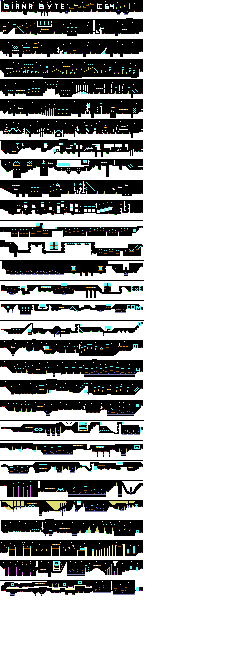
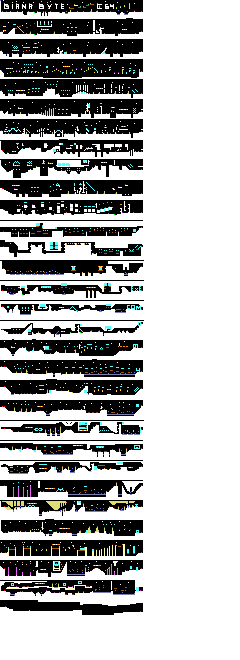
added basic boss and started 30th level

Changed region(s): [[0.0, 0.9091, 0.6125, 0.9394]]

diff --git a/core/src/com/mdinic/game/giana/Boss.java b/core/src/com/mdinic/game/giana/Boss.java
@@ -1,0 +1,120 @@
+package com.mdinic.game.giana;
+
+import com.mdinic.game.giana.Bullet.BulletState;
+import com.mdinic.game.giana.Sounds.Sfx;
+
+public class Boss extends Monster {
+
+    BossState state = BossState.WAIT;
+
+    enum BossState {
+        ATACK, RETREAT, STAY, WAIT, GIANA_ON_SIGHT
+    }
+
+    public Boss(GameMap map, float x, float y) {
+        super(map, x, y);
+        bounds.width = 2;
+        bounds.height = 1;
+
+        vel.set(-1, 0);
+    }
+
+    public void update(float deltaTime) {
+        stateTime += deltaTime;
+        bounds.x += vel.x * deltaTime;
+        bounds.y += vel.y * deltaTime;
+
+        switch (state) {
+        case WAIT:
+            vel.set(0, 0);
+            if (map.giana.pos.x > pos.x - GameMap.MAP_HEIGHT / 2) {
+                state = BossState.GIANA_ON_SIGHT;
+            }
+            break;
+        case GIANA_ON_SIGHT:
+            state = BossState.STAY;
+            stateTime = 0;
+            break;
+        case STAY:
+            if (stateTime < 0.5) {
+                vel.set(-2, 0);
+            } else if (stateTime < 1) {
+                vel.set(2, 0);
+            } else {
+                state = BossState.ATACK;
+                stateTime = 0;
+            }
+
+            break;
+        case ATACK:
+            if (stateTime > 2) {
+                state = BossState.RETREAT;
+                stateTime = 0;
+            } else {
+                vel.set(-4, 0);
+            }
+            break;
+        case RETREAT:
+            if (stateTime > 3) {
+                state = BossState.STAY;
+                stateTime = 0;
+            } else {
+                vel.set(2, 0);
+            }
+            break;
+        default:
+            break;
+        }
+
+        // boolean change = false;
+        // int y = map.tiles[0].length - 1 - (int) Math.floor(bounds.y);
+        // if (state == FORWARD) {
+        // // System.out.println("fw");
+        // change = map.isColidable(map.tiles[(int) Math.ceil(bounds.x)][y]);
+        // change = change || map.tiles[(int) Math.ceil(bounds.x)][y + 1] == 0;
+        // } else {
+        // // System.out.println("bw");
+        // change = map.isColidable(map.tiles[(int) Math.floor(bounds.x)][y]);
+        // change = change || map.tiles[(int) Math.floor(bounds.x)][y + 1] == 0;
+        // }
+        // if (change) {
+        // bounds.x -= vel.x * deltaTime;
+        // bounds.y -= vel.y * deltaTime;
+        // state = -state;
+        // vel.scl(-1);
+        // if (state == FORWARD)
+        // vel.nor().scl(FORWARD_VEL);
+        // if (state == BACKWARD)
+        // vel.nor().scl(BACKWARD_VEL);
+        // }
+        //
+        // killByGiana(type.canBeKilled);
+
+        tryToKillGiana();
+
+        pos.x = bounds.x;
+        pos.y = bounds.y;
+
+    }
+
+    @Override
+    protected void killByGiana(boolean canBeKilled) {
+        boolean hit = (map.giana.bullet.active && map.giana.bullet.bounds.overlaps(bounds));
+        if (hit && alive && !map.demo) {
+
+            if (canBeKilled) {
+                alive = false;
+                map.score += 50;
+                map.sounds.play(Sfx.KILL);
+            }
+
+            if (map.giana.bullet.state != BulletState.EXPLODE) {
+                map.giana.bullet.time = 0;
+                map.giana.bullet.state = BulletState.EXPLODE;
+            }
+        }
+
+    }
+    // spider 0xeef11c
+
+}

diff --git a/core/src/com/mdinic/game/giana/MapRenderer.java b/core/src/com/mdinic/game/giana/MapRenderer.java
@@ -33,6 +33,8 @@ public class MapRenderer {
     public SpriteBatch batch = new SpriteBatch(5460);
     public final SpriteBatch fontBatch;
 
+    Animation spiderAnim;
+
     Animation gianaLeft;
     Animation gianaRight;
     Animation gianaJumpLeft;
@@ -289,6 +291,9 @@ public class MapRenderer {
 
         spawn = gianaSmallRight[0];
 
+        spiderAnim = new Animation(0.1f, new TextureRegion(new Texture(Gdx.files.internal("data/spider.png"))).split(
+                46, 20)[0]);
+
         FreeTypeFontGenerator generator = new FreeTypeFontGenerator(Gdx.files.internal("data/Giana.ttf"));
         FreeTypeFontParameter parameter = new FreeTypeFontParameter();
 
@@ -368,10 +373,19 @@ public class MapRenderer {
 
         renderGiana();
 
+        renderBoss();
+
         batch.end();
 
         if (!map.demo) {
             renderUpperText();
+        }
+    }
+
+    private void renderBoss() {
+        if (map.boss != null) {
+            batch.draw(spiderAnim.getKeyFrame(map.boss.stateTime, true), map.boss.pos.x, map.boss.pos.y,
+                    map.boss.bounds.width, map.boss.bounds.height);
         }
     }
 
@@ -772,6 +786,7 @@ public class MapRenderer {
 
         disposeAnimation(ballUpAnim);
         disposeAnimation(ballDownAnim);
+        disposeAnimation(spiderAnim);
 
         batch.dispose();
     }

diff --git a/core/src/com/mdinic/game/giana/GameMap.java b/core/src/com/mdinic/game/giana/GameMap.java
@@ -31,6 +31,8 @@ public class GameMap {
     static int BEE = 0xd2a285;
     static int QUICK_SAND = 0xA45A04;
 
+    static int SPIDER = 0xeef11c;
+
     static int LEVEL_PIXELBUFFER = 20;
 
     List<Integer> colidableColors = new ArrayList<Integer>();
@@ -65,6 +67,8 @@ public class GameMap {
     Array<Fish> fishes = new Array<Fish>();
     Array<Ball> balls = new Array<Ball>();
     Array<FixedTrap> fixedTraps = new Array<FixedTrap>();
+
+    Boss boss;
 
     public SimpleImage endDoor;
     public SimpleImage bonusLevelEndDoor;
@@ -174,6 +178,8 @@ public class GameMap {
                 int newY = pixmapHeight - 1 - y;
                 if (match(pix, START)) {
                     giana = new Giana(this, x, newY);
+                } else if (match(pix, SPIDER)) {
+                    boss = new Boss(this, x, newY);
                 } else if (match(pix, DIAMOND)) {
                     diamonds.add(new Diamond(this, x, newY));
                 } else if (match(pix, PIRANHA)) {
@@ -299,6 +305,9 @@ public class GameMap {
             sand.update(deltaTime);
         }
 
+        if (boss != null) {
+            boss.update(deltaTime);
+        }
     }
 
     public boolean isDeadly(int tileId) {

diff --git a/core/src/com/mdinic/game/giana/screens/GianaSistersScreen.java b/core/src/com/mdinic/game/giana/screens/GianaSistersScreen.java
@@ -12,7 +12,7 @@ public abstract class GianaSistersScreen implements Screen {
 
     public static final int SCREEN_WIDTH = 480;
     public static final int SCREEN_HEIGHT = 320;
-    public static final int LEVEL_COUNT = 29;
+    public static final int LEVEL_COUNT = 30;
 
     public GianaSistersScreen(Game game, MapRenderer renderer) {
         this.game = game;

diff --git a/core/src/com/mdinic/game/giana/Monster.java b/core/src/com/mdinic/game/giana/Monster.java
@@ -48,7 +48,7 @@ public class Monster {
         }
     }
 
-    protected void tryToKilGiana() {
+    protected void tryToKillGiana() {
         if (alive && map.giana.bounds.overlaps(bounds) && !map.demo) {
             if (map.giana.state != GianaState.DYING) {
                 map.giana.state = GianaState.DYING;

diff --git a/core/src/com/mdinic/game/giana/GroundMonster.java b/core/src/com/mdinic/game/giana/GroundMonster.java
@@ -47,7 +47,7 @@ public class GroundMonster extends Monster {
 
         killByGiana(type.canBeKilled);
 
-        tryToKilGiana();
+        tryToKillGiana();
 
         pos.x = bounds.x;
         pos.y = bounds.y;

diff --git a/core/src/com/mdinic/game/giana/Bee.java b/core/src/com/mdinic/game/giana/Bee.java
@@ -69,7 +69,7 @@ public class Bee extends Monster {
 
         killByGiana(true);
 
-        tryToKilGiana();
+        tryToKillGiana();
     }
 
 }
